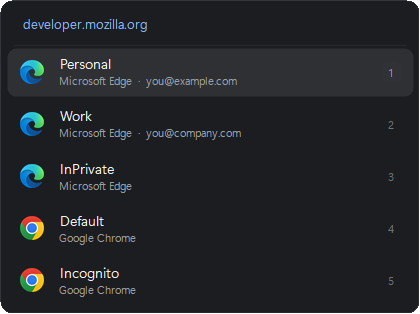
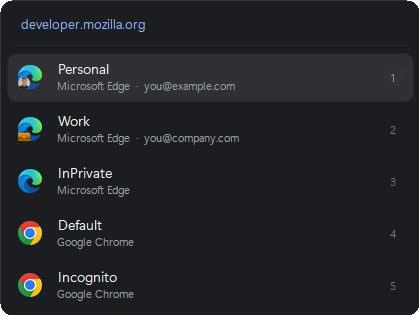
docs: refresh screenshots and document updates and appearance

diff --git a/README.md b/README.md
@@ -6,7 +6,7 @@
 
 <p align="center">
   <strong>Choose which browser opens each link.</strong><br>
-  A Choosy-style browser chooser for Windows — in a single 60&nbsp;KB executable.
+  A Choosy-style browser chooser for Windows — in a single 85&nbsp;KB executable.
 </p>
 
 <p align="center">
@@ -32,18 +32,24 @@ Click a work link, it opens in your work profile. Click anything else, you choos
 ## Features
 
 - **Per-profile targets** — Chrome and Edge profiles are separate destinations, not just "Chrome"
+- **Real profile logos** — each entry uses the badged icon the browser itself puts on your taskbar
 - **Rules** — host patterns route silently, so the links you always know about never interrupt you
 - **Picker** — appears at the cursor; click, or press `1`–`9`
-- **Reorderable** — drag to set the order, which becomes the number-key order
+- **Shaped to taste** — a list or a dock, five sizes, and switches for names, addresses and private windows
+- **Reorderable** — drag a logo in the live preview; that order becomes the number-key order
+- **Self-updating** — settings checks Releases and installs a new version on click
 - **Keyboard-first** — arrows and `Enter`, `Esc` to cancel, `Shift` while clicking to force the picker
 - **Nothing resident** — no tray icon, no startup entry, no background process
-- **No installer, no dependencies** — one exe, ~60 KB
+- **No installer, no dependencies** — one exe, ~85 KB
 
 ## Screenshots
 
 <p align="center">
-  <img src="docs/settings.png" alt="Picky settings: status, browser list, and rules" width="722">
+  <img src="docs/settings.png" alt="Picky settings: appearance switches, a live preview of the menu, and rules" width="722">
 </p>
+
+The preview in the middle is the real picker, drawn by the same code that draws
+the menu itself — so it cannot show you something a link would not.
 
 ## Install
 
@@ -61,21 +67,36 @@ breaks link handling system-wide.
 If you downloaded the exe instead, put it somewhere permanent, then:
 
 1. Run `picky.exe` — the settings window opens
-2. Click **Register** — writes to `HKCU` only, no administrator rights needed
-3. Click **Set as default** and assign **http** and **https** to Picky
+2. Click **Setup** — writes to `HKCU` only, no administrator rights needed
+3. Click **Default** and assign **http** and **https** to Picky
+
+That button is the one word at the top right, and it tells you where you are:
+**Setup** before registering, **Default** once registered, **Change** once Picky
+is handling your links.
 
 That last step is manual by design. Windows protects the default-browser setting
 with a per-user hash specifically so that no program can reassign it silently.
 Any tool that claims to do it for you is forging that hash, and Windows reverts it.
 
-**Unregister** removes every key Picky added.
+## Updates
+
+Opening settings checks the [Releases](../../releases) page in the background. When
+a release is newer than the running build, a bar appears under the title with an
+**Update** button: it downloads that release's `picky.exe`, moves the running one
+aside, swaps the new one in and restarts.
+
+The repository is pinned in the source rather than read from config — an updater
+that can be pointed elsewhere by a settings file is a way to make Picky run
+someone else's code. A release is only offered if it is not a draft or a
+prerelease and has a `picky.exe` attached, and the download is rejected unless it
+is really a program.
 
 ## Usage
 
 | Action | Result |
 |---|---|
 | Click a link | A matching rule routes it silently; otherwise the picker appears |
-| `1` – `9` | Open in that entry |
+| `1` – `9` | Open in that entry — the keys work even where the numbers are not drawn |
 | `↑` `↓` then `Enter` | Move the selection and open |
 | `Esc`, or click away | Dismiss without opening |
 | **Shift** while clicking a link | Force the picker even when a rule matches |
@@ -87,14 +108,25 @@ or edit `%APPDATA%\Picky\config.json`:
 
 ```json
 {
-  "rules": [
-    { "pattern": "*.company.com", "targetId": "microsoftedge|Profile 1" },
-    { "pattern": "github.com",    "targetId": "googlechrome|Default" }
+  "Rules": [
+    { "Pattern": "*.company.com", "TargetId": "microsoftedge|Profile 1" },
+    { "Pattern": "github.com",    "TargetId": "googlechrome|Default" }
   ],
-  "order": ["microsoftedge|Default", "microsoftedge|Profile 1"],
-  "showPrivate": true
+  "Order": ["microsoftedge|Default", "microsoftedge|Profile 1"],
+  "ShowPrivate": true,
+  "PickerLayout": "column",
+  "ShowLabels": true,
+  "ShowHost": true,
+  "ShowBrowserName": true,
+  "PickerScale": 1.0
 }
 ```
+
+Key names are matched exactly, so keep the capitalisation above — it is what the
+settings window writes. Everything below `ShowPrivate` is appearance: `PickerLayout`
+is `"column"` or `"row"`, the three switches drop the profile name, the link
+address and the browser name, and `PickerScale` sizes the whole menu (clamped to
+0.5–2.0, since a zero would leave nothing to click).
 
 Patterns are case-insensitive and anchored, so `github.com` does **not** match
 `evil-github.com`. `*` is the only wildcard. A rule pointing at a browser or
